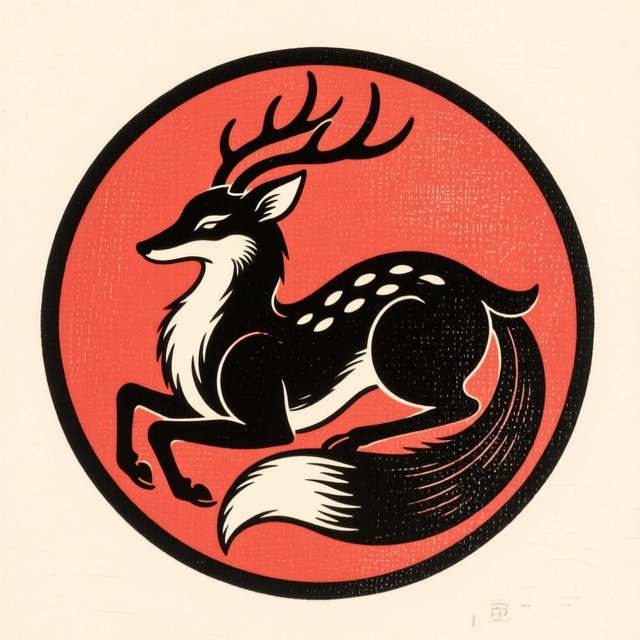
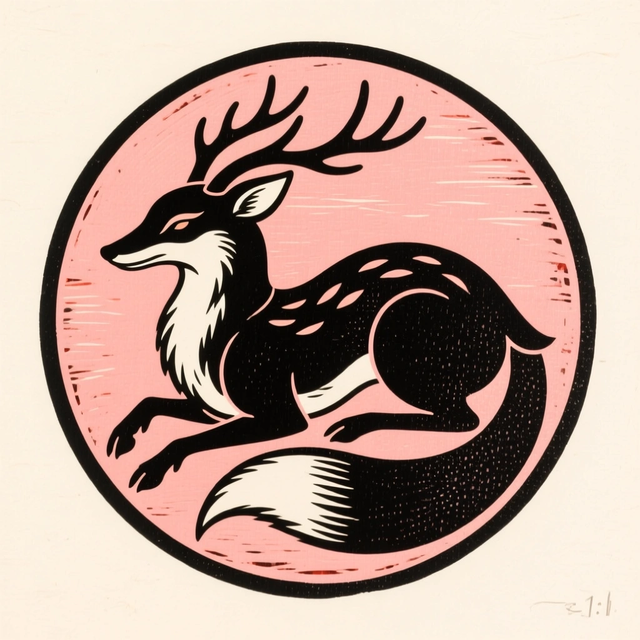
polish: pink woodblock totem + equalize loading↔reveal disc size
* New AI-generated demo totem uses AlterU brand pink (#f5b1c7) instead
  of conventional cinnabar red — keeps the folk-art woodblock language
  while carrying the platform color thread.
* Prompt template updated to specify dusty rose pink, explicitly
  excluding red/orange.
* Reveal image is now a fixed 240×240 disc — matches the loading disc's
  size exactly so loading→reveal feels like one continuous casting
  (previously the reveal was ~50px bigger because of % width vs the
  loading's fixed px).

diff --git a/src/OneTapADay/utils/totem.ts b/src/OneTapADay/utils/totem.ts
@@ -25,8 +25,11 @@ export function totemPrompt(dayString: string): string {
   const { word, tone } = themeForDay(dayString);
   return [
     `A symbolic ritual emblem of a ${word} — ${tone}.`,
-    // Style: traditional two-color woodblock print (ink + cinnabar).
-    `Two-color woodblock print: deep ink black and aged cinnabar red on cream paper.`,
+    // Style: traditional two-color woodblock print, but the second color is
+    // the AlterU brand pink (cochineal-ish dusty rose, hex #f5b1c7) instead
+    // of the conventional cinnabar — keeps the folk-art language while
+    // carrying the platform color thread.
+    `Two-color woodblock print: deep ink black and soft dusty rose pink (cochineal, #f5b1c7) on cream paper. No red, no orange — the second color must be a soft warm pink.`,
     // Composition: circular tondo. The subject must curl/coil/arrange to
     // fill a perfect circle — the final image is masked to a circle in-app,
     // so anything pushed to the corners is lost.

diff --git a/src/OneTapADay/OneTapADay.less b/src/OneTapADay/OneTapADay.less
@@ -674,11 +674,12 @@
     color: @pink;
     text-shadow: 0 0 12px @pink-ghost;
   }
-  // Revealed totem — circular, with the same soft pink halo as the loading
-  // ring so loading→reveal feels continuous (one disc casting another).
+  // Revealed totem — circular, same 240px diameter as the loading disc so
+  // the loading → reveal transition feels like one continuous disc that
+  // simply finished being cast. Same soft pink halo.
   &__image {
-    width: 78%;
-    aspect-ratio: 1;
+    width: 240px;
+    height: 240px;
     overflow: hidden;
     background: @bg-2;
     border-radius: 50%;
